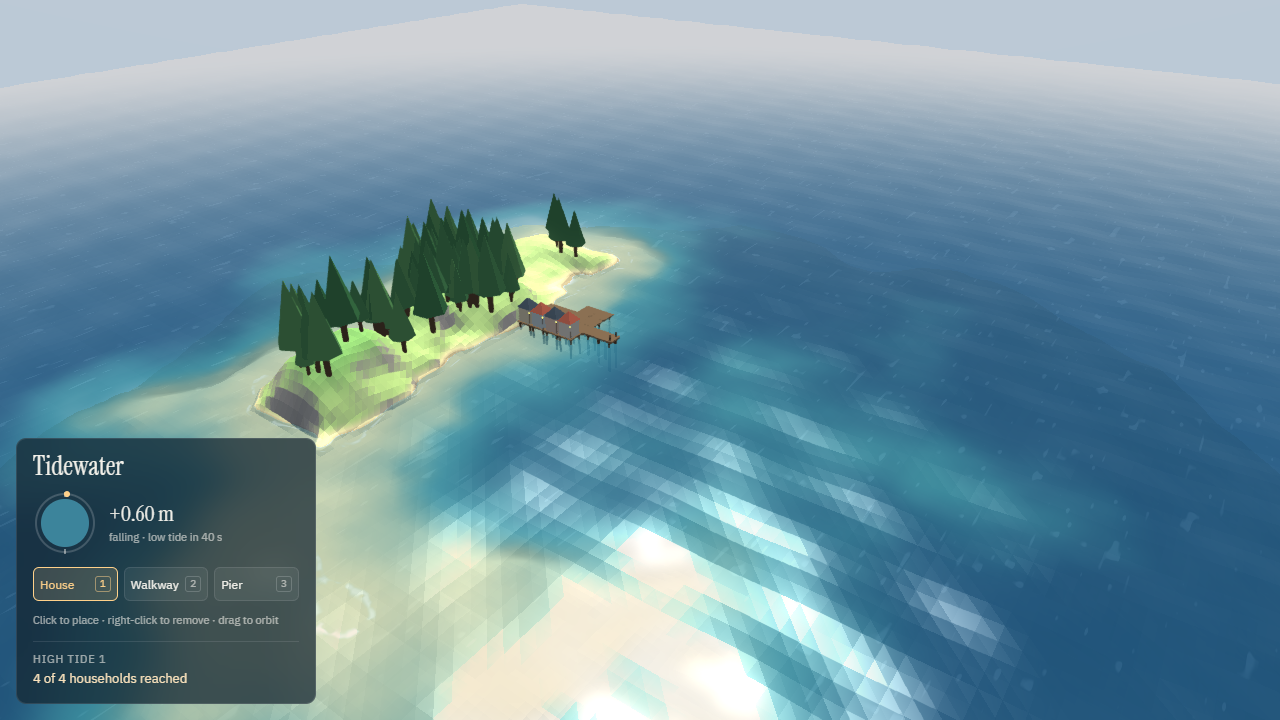
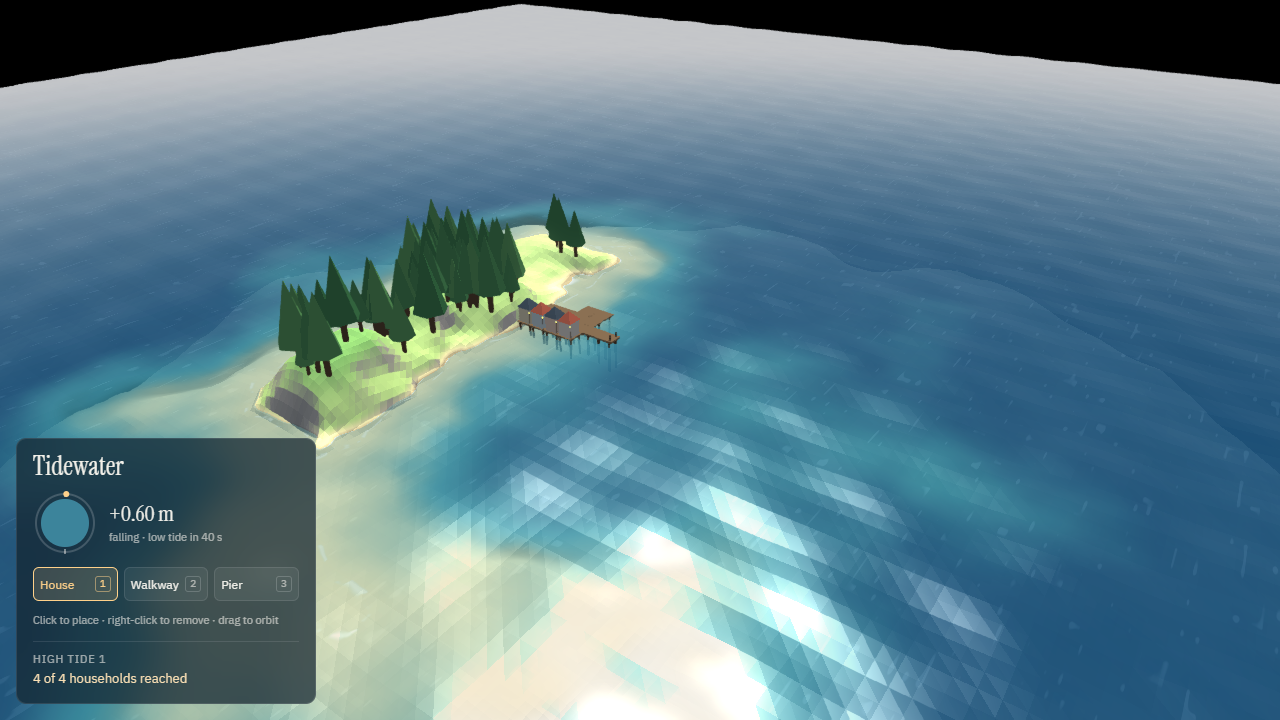
M0 done: smoke on GPU headless (165 fps), progress log

diff --git a/test/smoke.ts b/test/smoke.ts
@@ -15,7 +15,8 @@ await server.listen();
 const browser = await chromium.launch({
   channel: "chrome",
   headless: true,
-  args: ["--use-angle=swiftshader", "--enable-unsafe-swiftshader", "--ignore-gpu-blocklist"],
+  // Headless Chrome uses the real GPU with the blocklist ignored (verified: ANGLE D3D11 on the RTX 4060).
+  args: ["--ignore-gpu-blocklist"],
 });
 try {
   const page = await browser.newPage({ viewport: { width: 1280, height: 720 } });
@@ -79,7 +80,7 @@ try {
   await page.waitForTimeout(300);
   await page.screenshot({ path: "shots/m0.png" });
 
-  // Headless fps, averaged over 5 s (SwiftShader software GL, so a floor, not the real number).
+  // Headless fps on the real GPU, averaged over 5 s.
   const fps = await page.evaluate(async () => {
     const tw = (window as unknown as { __tidewater: any }).__tidewater;
     let frames = 0;

diff --git a/PROGRESS.md b/PROGRESS.md
@@ -4,8 +4,8 @@ Live status. Update after every milestone (and mid-milestone if you compact). On
 
 | Milestone | Status | Notes |
 |---|---|---|
-| M0 Harness | IN PROGRESS | sub-task: vitest + playwright setup, console API |
-| M1 Ledger refactor | TODO | |
+| M0 Harness | DONE | c499b38 · `npm run test` 6 sim tests, `npm run smoke` places pier/walkways/houses, advances a cycle, asserts score, shots/m0.png · headless 165 fps |
+| M1 Ledger refactor | IN PROGRESS | sub-task: starting |
 | M2 Money loop | TODO | |
 | M3 Tide splits economy | TODO | |
 | M4 Town looks alive | TODO | |
@@ -21,10 +21,11 @@ Live status. Update after every milestone (and mid-milestone if you compact). On
 | M14 Ship it | TODO | |
 
 ## Current focus
-M0 Harness — sub-task: install vitest + playwright, add test/sim.test.ts, test/smoke.ts, console API. Last thing that worked: sessions 1–2 game renders and plays.
+M1 Ledger refactor — sub-task: starting (state.ts, fixed timestep, sim-owned grid/network/tide, save/load). Last thing that worked: M0 harness green.
 
 ## Blocked
 (milestone, why, what was tried, what would unblock)
 
 ## Run log
 (one line per milestone completion: time, commit hash, fps measured)
+- 2026-09-26 02:00 · M0 · c499b38 · headless 165 fps (Chrome headless on the RTX 4060 via --ignore-gpu-blocklist; SwiftShader gave 15.6)
